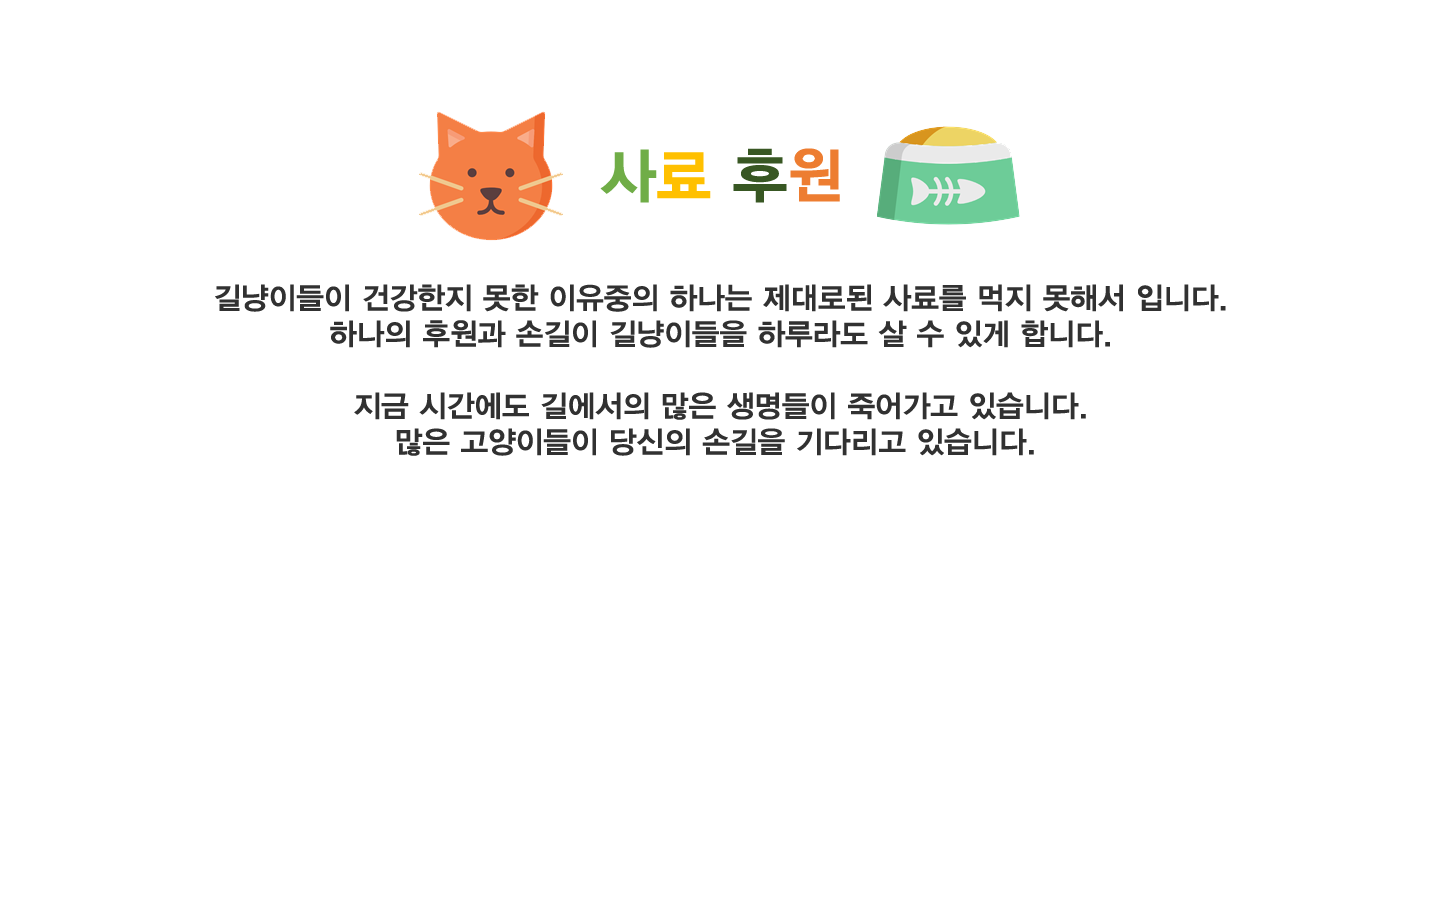
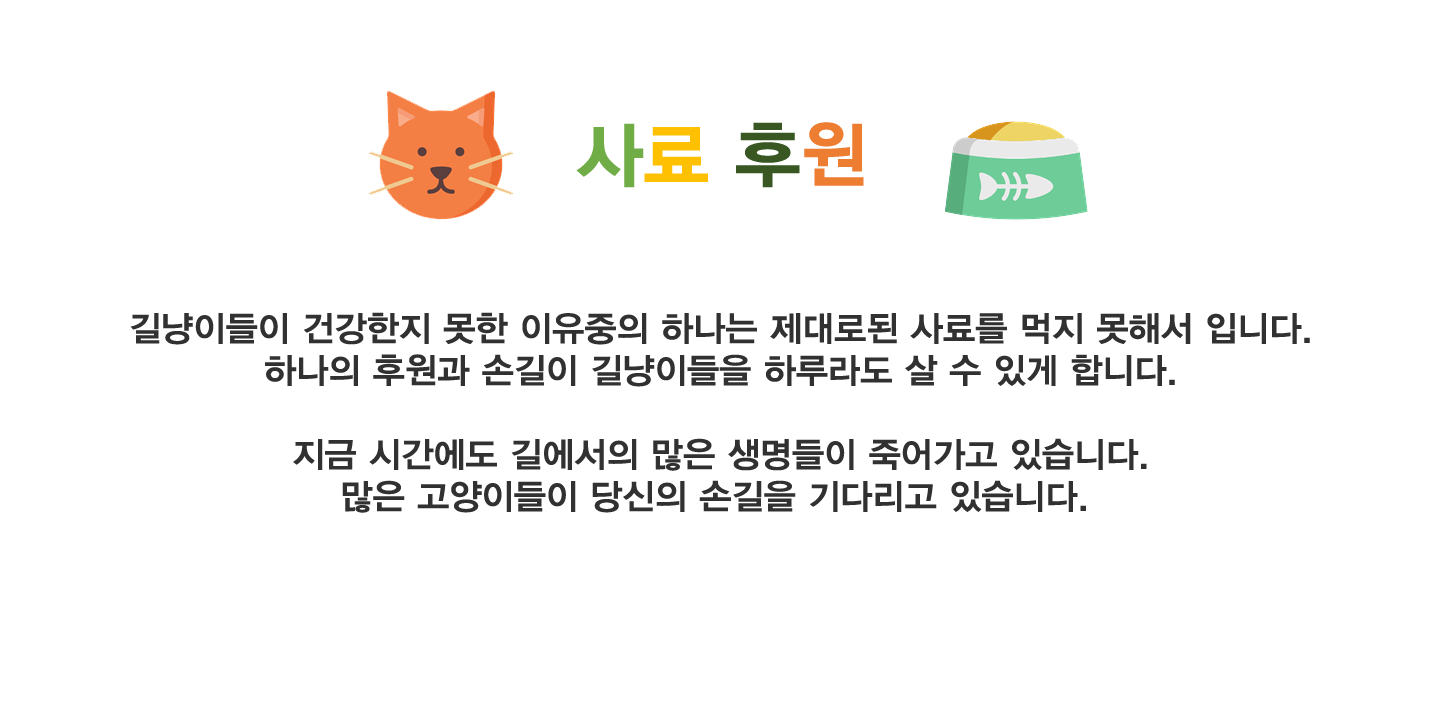
support css change

Changed region(s): [[0.1562, 0.1195, 0.8438, 0.3883], [0.0938, 0.4182, 0.9062, 0.5676], [0.1875, 0.6273, 0.8125, 0.7468]]

diff --git a/djangoproject/myapp/templates/support.html b/djangoproject/myapp/templates/support.html
@@ -7,31 +7,32 @@
     <div id="particles-js"></div>
     <div class="container-fluid">
         <div class="row no-gutters slider-text align-items-center justify-content-center" data-scrollax-parent="true">
-            <div class="panel panel-default" style="margin-top: 5%;background-color: rgba( 255, 255, 255, 0.5 );">
+            <div class="panel panel-default" style="margin-top: 5%;background-color: rgba( 255, 255, 255, 0.5 ); width:70%; height:65%;">
                 <div class="panel-body">
                     <div id="carouselExampleControls" class="carousel slide" data-ride="carousel">
                         <div class="carousel-inner">
-                            <div class="carousel-item active">
+                            <div class="carousel-item active" style="margin-top:40px;">
                                 <center>
-                                    <img src="{% static 'images/supprot_ntr.png' %}" height=450 width=900>
+                                    <img src="{% static 'images/supprot_ntr.png' %}" height=100% width=800>
                                 </center>
                                 <center>
                                     <a href="#"
                                         onclick="window.open('pop_tnr','pop_tnr','width=680,height=400,location=no,status=no,scrollbars=no');"
                                         class="btn btn-primary btn-lg btn-outline-pink px-5 py-3"
-                                        style="margin-bottom:20px;">
+                                        style="margin-bottom:0px; margin-top:20px;">
                                         <font size="5em" color="#eb86b4">후원 하기
                                     </a></font>
                                 </center>
                             </div>
-                            <div class="carousel-item">
+                            <div class="carousel-item" style="margin-top:50px;">
                                 <center>
-                                    <img src="{% static 'images/supprot_num.png' %}" height=449 width=900>
+                                    <img src="{% static 'images/supprot_num.png' %}" height=100% width=800 >
                                 </center>
                                 <center>
                                     <a href="#"
                                         onclick="window.open('pop_snack','pop_tnr','width=680,height=400,location=no,status=no,scrollbars=no');"
-                                        class="btn btn-primary btn-lg btn-outline-pink px-5 py-3">
+                                        class="btn btn-primary btn-lg btn-outline-pink px-5 py-3"
+                                        style="margin-bottom:30px;">
                                         <font size="5em" color="#eb86b4">후원 하기
                                     </a></font>
                                 </center>

diff --git a/djangoproject/myaccount/templates/mypage.html b/djangoproject/myaccount/templates/mypage.html
@@ -45,61 +45,4 @@
   </div>
 </div>
 </div>
-<footer class="ftco-footer ftco-bg-dark ftco-section">
-  <div class="container">
-    <div class="row mb-5">
-      <div class="col-md">
-        <div class="ftco-footer-widget mb-4">
-          <h2 class="ftco-heading-2">Snipp.</h2>
-          <p>Far far away, behind the word mountains, far from the countries Vokalia and Consonantia, there live the
-            blind texts.</p>
-        </div>
-      </div>
-      <div class="col-md">
-        <div class="ftco-footer-widget mb-4 ml-5">
-          <h2 class="ftco-heading-2">Quick Links</h2>
-          <ul class="list-unstyled">
-            <li><a href="#" class="py-2 d-block">Home</a></li>
-            <li><a href="#" class="py-2 d-block">내 정보</a></li>
-            <li><a href="#" class="py-2 d-block">고양이 자랑글</a></li>
-            <li><a href="#" class="py-2 d-block">고양이 자유게시판</a></li>
-            <li><a href="#" class="py-2 d-block">길고양이 지도</a></li>
-          </ul>
-        </div>
-      </div>
-      <div class="col-md">
-        <div class="ftco-footer-widget mb-4">
-          <h2 class="ftco-heading-2">Contact Information</h2>
-          <ul class="list-unstyled">
-            <li><a href="#" class="py-2 d-block">198 West 21th Street, Suite 721 New York NY 10016</a></li>
-            <li><a href="#" class="py-2 d-block">+ 1235 2355 98</a></li>
-            <li><a href="#" class="py-2 d-block">info@yoursite.com</a></li>
-            <li><a href="#" class="py-2 d-block">email@email.com</a></li>
-          </ul>
-        </div>
-      </div>
-      <div class="col-md">
-        <div class="ftco-footer-widget mb-4">
-          <ul class="ftco-footer-social list-unstyled float-md-left float-lft">
-            <li class="ftco-animate"><a href="#"><span class="icon-twitter"></span></a></li>
-            <li class="ftco-animate"><a href="#"><span class="icon-facebook"></span></a></li>
-            <li class="ftco-animate"><a href="#"><span class="icon-instagram"></span></a></li>
-          </ul>
-        </div>
-      </div>
-    </div>
-    <div class="row">
-      <div class="col-md-12 text-center">
-
-        <p>
-          <!-- Link back to Colorlib can't be removed. Template is licensed under CC BY 3.0. -->
-          Copyright &copy;
-          <script>document.write(new Date().getFullYear());</script> All rights reserved | This template is made with <i
-            class="icon-heart" aria-hidden="true"></i> by <a href="https://colorlib.com" target="_blank">Colorlib</a>
-          <!-- Link back to Colorlib can't be removed. Template is licensed under CC BY 3.0. -->
-        </p>
-      </div>
-    </div>
-  </div>
-</footer>
 {% endblock %}

diff --git a/djangoproject/myapp/templates/base.html b/djangoproject/myapp/templates/base.html
@@ -54,6 +54,15 @@
             color: #000000;
             margin: 10px;
         }
+        .carousel-control .glyphicon-chevron-right,
+        .carousel-control .icon-next {
+            right: 0;
+        }
+
+        .carousel-control .glyphicon-chevron-left,
+        .carousel-control .icon-prev {
+            left: 0;
+        }
     </style>
 </head>
 
@@ -81,7 +90,7 @@
                     </li>
                     <li class="nav-item"><a href="{% url 'support'%}" class="nav-link">후원</a></li>
                     {% if user.is_authenticated %}
-                    <li class="nav-item cta"><a href="javascript:{documewnt.getElementById('logout').submit()}"
+                    <li class="nav-item cta"><a href="javascript:{document.getElementById('logout').submit()}"
                             class="nav-link"><span>로그아웃</span></a></li>
                     <form id="logout" method="POST" action="{% url 'logout' %}">
                         {% csrf_token %} <input type="hidden" />
